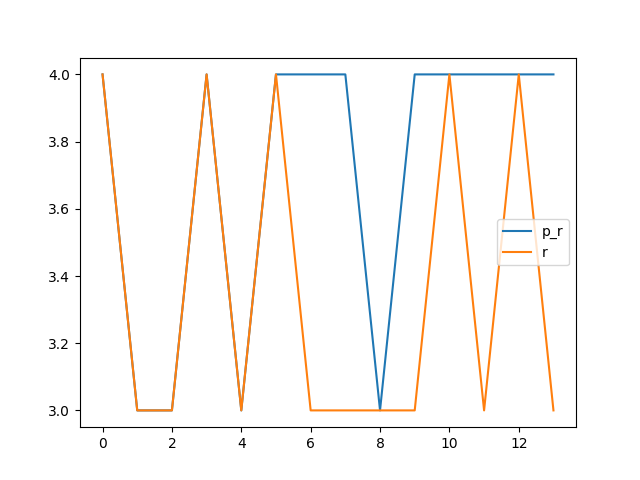
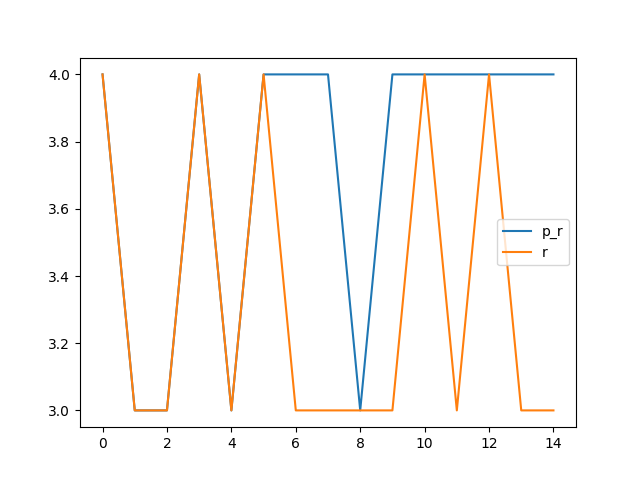
0x000E

diff --git a/benchmark.md b/benchmark.md
@@ -28,14 +28,16 @@ Synthesising 0x000C pexact:182 r=4 exact:320 r=4
 
 Synthesising 0x000D pexact:182 r=4 exact:216 r=3
 
+Synthesising 0x000E pexact:182 r=4 exact:216 r=3
+
 ```mermaid
 xychart-beta
     title "Comparison powertwoexact twoexact"
-    x-axis [0, 1, 2, 3, 4, 5, 6, 7, 8, 9, 10, 11, 12, 13]
+    x-axis [0, 1, 2, 3, 4, 5, 6, 7, 8, 9, 10, 11, 12, 13, 14]
     y-axis "Switching Activity" 0-->352
-    line [96, 152, 152, 182, 152, 182, 208, 182, 152, 208, 182, 182, 182, 182]
-    line [192, 152, 152, 312, 152, 352, 224, 192, 192, 224, 352, 216, 320, 216]
-    line [171.0, 171.0, 171.0, 171.0, 171.0, 171.0, 171.0, 171.0, 171.0, 171.0, 171.0, 171.0, 171.0, 171.0]
-    line [232.0, 232.0, 232.0, 232.0, 232.0, 232.0, 232.0, 232.0, 232.0, 232.0, 232.0, 232.0, 232.0, 232.0]
+    line [96, 152, 152, 182, 152, 182, 208, 182, 152, 208, 182, 182, 182, 182, 182]
+    line [192, 152, 152, 312, 152, 352, 224, 192, 192, 224, 352, 216, 320, 216, 216]
+    line [171.73333333333332, 171.73333333333332, 171.73333333333332, 171.73333333333332, 171.73333333333332, 171.73333333333332, 171.73333333333332, 171.73333333333332, 171.73333333333332, 171.73333333333332, 171.73333333333332, 171.73333333333332, 171.73333333333332, 171.73333333333332, 171.73333333333332]
+    line [230.93333333333334, 230.93333333333334, 230.93333333333334, 230.93333333333334, 230.93333333333334, 230.93333333333334, 230.93333333333334, 230.93333333333334, 230.93333333333334, 230.93333333333334, 230.93333333333334, 230.93333333333334, 230.93333333333334, 230.93333333333334, 230.93333333333334]
 ```
 
